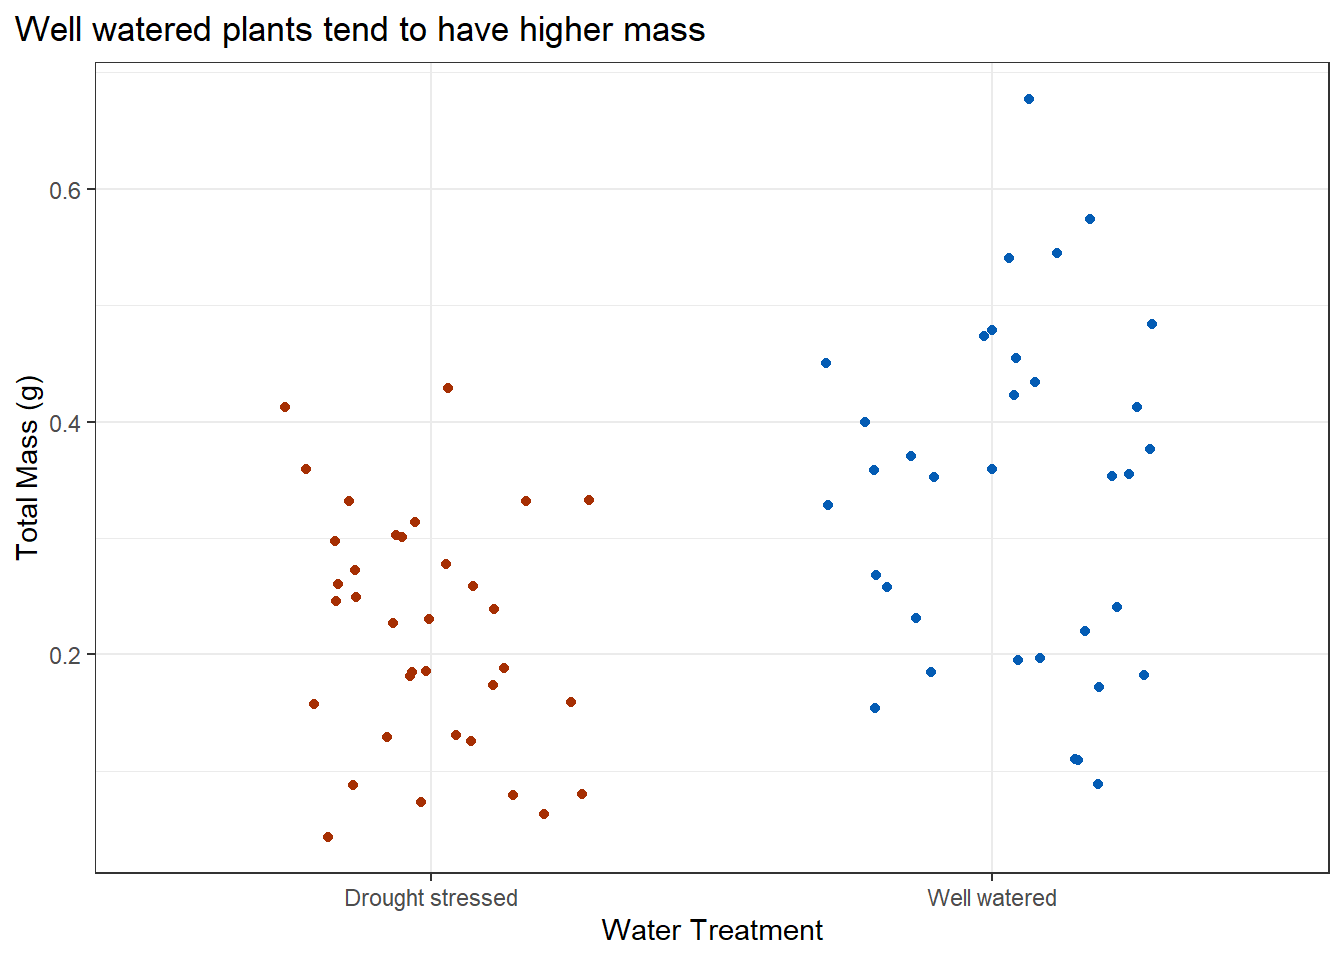
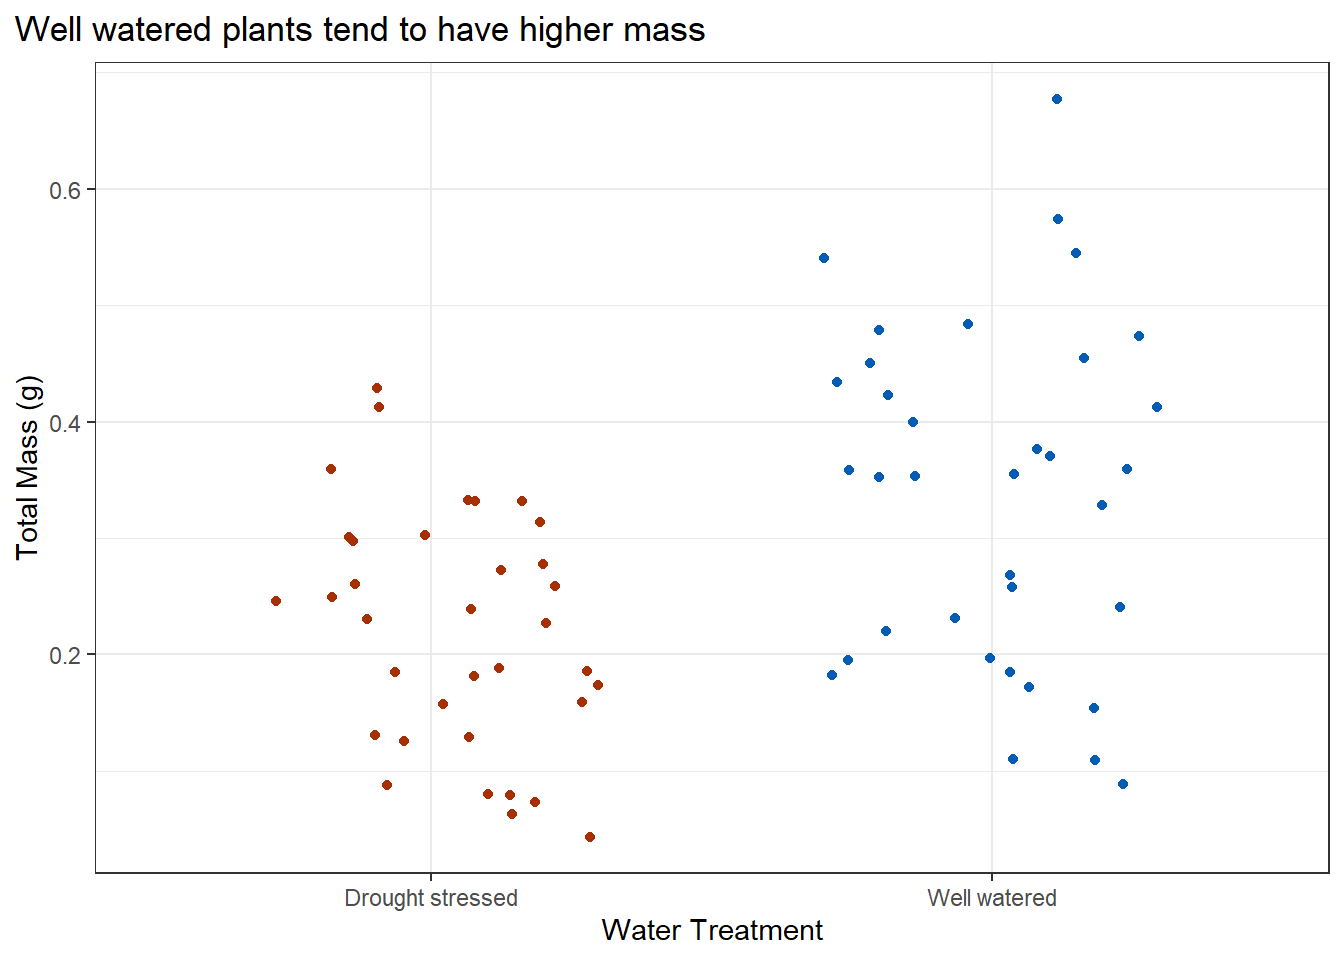
selected best model, looked at summary, wrote about the outcome

diff --git a/code/workshop-code.html b/code/workshop-code.html
@@ -94,7 +94,7 @@ pre > code.sourceCode > span > a:first-child::before { text-decoration: underlin
   </ul></li>
   <li><a href="#fitting-models" id="toc-fitting-models" class="nav-link" data-scroll-target="#fitting-models">4. Fitting models</a>
   <ul class="collapse">
-  <li><a href="#model-fitting" id="toc-model-fitting" class="nav-link" data-scroll-target="#model-fitting">Model fitting</a></li>
+  <li><a href="#model" id="toc-model" class="nav-link" data-scroll-target="#model">Model</a></li>
   <li><a href="#model-selection" id="toc-model-selection" class="nav-link" data-scroll-target="#model-selection">Model selection</a></li>
   <li><a href="#model-diagnostics" id="toc-model-diagnostics" class="nav-link" data-scroll-target="#model-diagnostics">Model diagnostics</a></li>
   <li><a href="#summary" id="toc-summary" class="nav-link" data-scroll-target="#summary">Summary</a></li>
@@ -303,16 +303,16 @@ pre > code.sourceCode > span > a:first-child::before { text-decoration: underlin
 <pre><code># A tibble: 10 × 4
    species_name               water_treatment    sla total_g
    &lt;fct&gt;                      &lt;fct&gt;            &lt;dbl&gt;   &lt;dbl&gt;
- 1 Lotus scoparius            Drought stressed  91.4  0.0626
- 2 Eschscholzia californica   Drought stressed 118.   0.129 
- 3 Eschscholzia californica   Drought stressed 107.   0.302 
- 4 Penstemon centranthifolius Drought stressed 161.   0.174 
- 5 Eschscholzia californica   Well watered     117.   0.574 
- 6 Lotus scoparius            Drought stressed 107.   0.159 
- 7 Lotus scoparius            Drought stressed 116.   0.0802
- 8 Stipa pulchra              Well watered     162.   0.355 
- 9 Penstemon centranthifolius Drought stressed 175.   0.188 
-10 Encelia californica        Well watered     216.   0.359 </code></pre>
+ 1 Penstemon centranthifolius Well watered     154.    0.268
+ 2 Stipa pulchra              Drought stressed 140.    0.359
+ 3 Penstemon centranthifolius Drought stressed 146.    0.126
+ 4 Stipa pulchra              Drought stressed 176.    0.181
+ 5 Grindelia camporum         Well watered     191.    0.479
+ 6 Stipa pulchra              Well watered     161.    0.376
+ 7 Grindelia camporum         Well watered     191.    0.484
+ 8 Salvia leucophylla         Drought stressed  99.7   0.227
+ 9 Penstemon centranthifolius Well watered     158.    0.154
+10 Lotus scoparius            Well watered     123.    0.182</code></pre>
 </div>
 </div>
 </section>
@@ -486,59 +486,141 @@ pre > code.sourceCode > span > a:first-child::before { text-decoration: underlin
 </tr>
 </tbody>
 </table>
-<section id="model-fitting" class="level2">
-<h2 class="anchored" data-anchor-id="model-fitting">Model fitting</h2>
+<section id="model" class="level2">
+<h2 class="anchored" data-anchor-id="model">Model</h2>
 <div class="cell">
 <div class="code-copy-outer-scaffold"><div class="sourceCode cell-code" id="cb11"><pre class="sourceCode r code-with-copy"><code class="sourceCode r"><span id="cb11-1"><a href="#cb11-1" aria-hidden="true" tabindex="-1"></a><span class="co"># model 0: null model</span></span>
-<span id="cb11-2"><a href="#cb11-2" aria-hidden="true" tabindex="-1"></a></span>
-<span id="cb11-3"><a href="#cb11-3" aria-hidden="true" tabindex="-1"></a></span>
-<span id="cb11-4"><a href="#cb11-4" aria-hidden="true" tabindex="-1"></a><span class="co"># model 1: all predictors</span></span>
-<span id="cb11-5"><a href="#cb11-5" aria-hidden="true" tabindex="-1"></a></span>
-<span id="cb11-6"><a href="#cb11-6" aria-hidden="true" tabindex="-1"></a></span>
-<span id="cb11-7"><a href="#cb11-7" aria-hidden="true" tabindex="-1"></a><span class="co"># model 2: SLA and water treatment</span></span>
+<span id="cb11-2"><a href="#cb11-2" aria-hidden="true" tabindex="-1"></a>model0 <span class="ot">&lt;-</span> <span class="fu">lm</span>(total_g <span class="sc">~</span> <span class="dv">1</span>,</span>
+<span id="cb11-3"><a href="#cb11-3" aria-hidden="true" tabindex="-1"></a>              <span class="at">data =</span> drought_exp_clean)</span>
+<span id="cb11-4"><a href="#cb11-4" aria-hidden="true" tabindex="-1"></a></span>
+<span id="cb11-5"><a href="#cb11-5" aria-hidden="true" tabindex="-1"></a><span class="co"># model 1: all predictors</span></span>
+<span id="cb11-6"><a href="#cb11-6" aria-hidden="true" tabindex="-1"></a>model1 <span class="ot">&lt;-</span> <span class="fu">lm</span>(total_g <span class="sc">~</span> sla <span class="sc">+</span> water_treatment <span class="sc">+</span> species_name,</span>
+<span id="cb11-7"><a href="#cb11-7" aria-hidden="true" tabindex="-1"></a>              <span class="at">data =</span> drought_exp_clean)</span>
 <span id="cb11-8"><a href="#cb11-8" aria-hidden="true" tabindex="-1"></a></span>
-<span id="cb11-9"><a href="#cb11-9" aria-hidden="true" tabindex="-1"></a></span>
-<span id="cb11-10"><a href="#cb11-10" aria-hidden="true" tabindex="-1"></a><span class="co"># model 3: SLA and species</span></span>
-<span id="cb11-11"><a href="#cb11-11" aria-hidden="true" tabindex="-1"></a></span>
+<span id="cb11-9"><a href="#cb11-9" aria-hidden="true" tabindex="-1"></a><span class="co"># model 2: SLA and water treatment</span></span>
+<span id="cb11-10"><a href="#cb11-10" aria-hidden="true" tabindex="-1"></a>model2 <span class="ot">&lt;-</span> <span class="fu">lm</span>(total_g <span class="sc">~</span> sla <span class="sc">+</span> water_treatment,</span>
+<span id="cb11-11"><a href="#cb11-11" aria-hidden="true" tabindex="-1"></a>              <span class="at">data =</span> drought_exp_clean)</span>
 <span id="cb11-12"><a href="#cb11-12" aria-hidden="true" tabindex="-1"></a></span>
-<span id="cb11-13"><a href="#cb11-13" aria-hidden="true" tabindex="-1"></a><span class="co"># model 4: water treatment and species</span></span>
-<span id="cb11-14"><a href="#cb11-14" aria-hidden="true" tabindex="-1"></a></span>
-<span id="cb11-15"><a href="#cb11-15" aria-hidden="true" tabindex="-1"></a></span>
-<span id="cb11-16"><a href="#cb11-16" aria-hidden="true" tabindex="-1"></a><span class="co"># model 5: SLA</span></span>
-<span id="cb11-17"><a href="#cb11-17" aria-hidden="true" tabindex="-1"></a></span>
-<span id="cb11-18"><a href="#cb11-18" aria-hidden="true" tabindex="-1"></a></span>
-<span id="cb11-19"><a href="#cb11-19" aria-hidden="true" tabindex="-1"></a><span class="co"># model 6: water treatment</span></span>
+<span id="cb11-13"><a href="#cb11-13" aria-hidden="true" tabindex="-1"></a><span class="co"># model 3: SLA and species</span></span>
+<span id="cb11-14"><a href="#cb11-14" aria-hidden="true" tabindex="-1"></a>model3 <span class="ot">&lt;-</span> <span class="fu">lm</span>(total_g <span class="sc">~</span> sla <span class="sc">+</span> species_name,</span>
+<span id="cb11-15"><a href="#cb11-15" aria-hidden="true" tabindex="-1"></a>              <span class="at">data =</span> drought_exp_clean)</span>
+<span id="cb11-16"><a href="#cb11-16" aria-hidden="true" tabindex="-1"></a></span>
+<span id="cb11-17"><a href="#cb11-17" aria-hidden="true" tabindex="-1"></a><span class="co"># model 4: water treatment and species</span></span>
+<span id="cb11-18"><a href="#cb11-18" aria-hidden="true" tabindex="-1"></a>model4 <span class="ot">&lt;-</span> <span class="fu">lm</span>(total_g <span class="sc">~</span> water_treatment <span class="sc">+</span> species_name,</span>
+<span id="cb11-19"><a href="#cb11-19" aria-hidden="true" tabindex="-1"></a>             <span class="at">data =</span> drought_exp_clean)</span>
 <span id="cb11-20"><a href="#cb11-20" aria-hidden="true" tabindex="-1"></a></span>
-<span id="cb11-21"><a href="#cb11-21" aria-hidden="true" tabindex="-1"></a></span>
-<span id="cb11-22"><a href="#cb11-22" aria-hidden="true" tabindex="-1"></a><span class="co"># model 7: species</span></span></code></pre></div><button title="Copy to Clipboard" class="code-copy-button"><i class="bi"></i></button></div>
+<span id="cb11-21"><a href="#cb11-21" aria-hidden="true" tabindex="-1"></a><span class="co"># model 5: SLA</span></span>
+<span id="cb11-22"><a href="#cb11-22" aria-hidden="true" tabindex="-1"></a>model5 <span class="ot">&lt;-</span> <span class="fu">lm</span>(total_g <span class="sc">~</span> sla,</span>
+<span id="cb11-23"><a href="#cb11-23" aria-hidden="true" tabindex="-1"></a>             <span class="at">data =</span> drought_exp_clean)</span>
+<span id="cb11-24"><a href="#cb11-24" aria-hidden="true" tabindex="-1"></a></span>
+<span id="cb11-25"><a href="#cb11-25" aria-hidden="true" tabindex="-1"></a><span class="co"># model 6: water treatment</span></span>
+<span id="cb11-26"><a href="#cb11-26" aria-hidden="true" tabindex="-1"></a>model6 <span class="ot">&lt;-</span> <span class="fu">lm</span>(total_g <span class="sc">~</span> water_treatment,</span>
+<span id="cb11-27"><a href="#cb11-27" aria-hidden="true" tabindex="-1"></a>             <span class="at">data =</span> drought_exp_clean)</span>
+<span id="cb11-28"><a href="#cb11-28" aria-hidden="true" tabindex="-1"></a></span>
+<span id="cb11-29"><a href="#cb11-29" aria-hidden="true" tabindex="-1"></a><span class="co"># model 7: species</span></span>
+<span id="cb11-30"><a href="#cb11-30" aria-hidden="true" tabindex="-1"></a>model7 <span class="ot">&lt;-</span> <span class="fu">lm</span>(total_g <span class="sc">~</span> species_name,</span>
+<span id="cb11-31"><a href="#cb11-31" aria-hidden="true" tabindex="-1"></a>             <span class="at">data =</span> drought_exp_clean)</span></code></pre></div><button title="Copy to Clipboard" class="code-copy-button"><i class="bi"></i></button></div>
 </div>
 </section>
 <section id="model-selection" class="level2">
 <h2 class="anchored" data-anchor-id="model-selection">Model selection</h2>
 <p>Insert code to use the <code>AICc()</code> function to calculate the AIC for each model.</p>
 <p>Arrange by decreasing AIC.</p>
+<div class="cell">
+<div class="code-copy-outer-scaffold"><div class="sourceCode cell-code" id="cb12"><pre class="sourceCode r code-with-copy"><code class="sourceCode r"><span id="cb12-1"><a href="#cb12-1" aria-hidden="true" tabindex="-1"></a><span class="fu">AICc</span>(</span>
+<span id="cb12-2"><a href="#cb12-2" aria-hidden="true" tabindex="-1"></a>  model0,</span>
+<span id="cb12-3"><a href="#cb12-3" aria-hidden="true" tabindex="-1"></a>  model1,</span>
+<span id="cb12-4"><a href="#cb12-4" aria-hidden="true" tabindex="-1"></a>  model2,</span>
+<span id="cb12-5"><a href="#cb12-5" aria-hidden="true" tabindex="-1"></a>  model3,</span>
+<span id="cb12-6"><a href="#cb12-6" aria-hidden="true" tabindex="-1"></a>  model4,</span>
+<span id="cb12-7"><a href="#cb12-7" aria-hidden="true" tabindex="-1"></a>  model5,</span>
+<span id="cb12-8"><a href="#cb12-8" aria-hidden="true" tabindex="-1"></a>  model6,</span>
+<span id="cb12-9"><a href="#cb12-9" aria-hidden="true" tabindex="-1"></a>  model7</span>
+<span id="cb12-10"><a href="#cb12-10" aria-hidden="true" tabindex="-1"></a>) <span class="sc">|&gt;</span> </span>
+<span id="cb12-11"><a href="#cb12-11" aria-hidden="true" tabindex="-1"></a>  <span class="fu">arrange</span>(AICc)</span></code></pre></div><button title="Copy to Clipboard" class="code-copy-button"><i class="bi"></i></button></div>
+<div class="cell-output cell-output-stdout">
+<pre><code>       df       AICc
+model4  9 -156.19595
+model1 10 -153.75361
+model3  9 -124.07569
+model7  8 -120.30191
+model2  4  -95.82521
+model5  3  -88.85180
+model6  3  -86.76661
+model0  2  -74.98036</code></pre>
+</div>
+</div>
+<p>The best model is model 4: the one that includes only water treatment and species</p>
 </section>
 <section id="model-diagnostics" class="level2">
 <h2 class="anchored" data-anchor-id="model-diagnostics">Model diagnostics</h2>
 <p>Insert code to look at the diagnostic plots for the best model.</p>
+<div class="cell">
+<div class="code-copy-outer-scaffold"><div class="sourceCode cell-code" id="cb14"><pre class="sourceCode r code-with-copy"><code class="sourceCode r"><span id="cb14-1"><a href="#cb14-1" aria-hidden="true" tabindex="-1"></a><span class="fu">par</span>(<span class="at">mfrow =</span> <span class="fu">c</span>(<span class="dv">2</span>,<span class="dv">2</span>)) <span class="co"># display our plots in a 2x2 grid</span></span>
+<span id="cb14-2"><a href="#cb14-2" aria-hidden="true" tabindex="-1"></a><span class="fu">plot</span>(model4) <span class="co"># plot model 4 diagnostics</span></span></code></pre></div><button title="Copy to Clipboard" class="code-copy-button"><i class="bi"></i></button></div>
+<div class="cell-output-display">
+<div>
+<figure class="figure">
+<p><img src="workshop-code_files/figure-html/Residual%20plots%20for%20model%204-1.png" class="img-fluid figure-img" width="672"></p>
+</figure>
+</div>
+</div>
+</div>
+<p>Diagnostic plots look good.</p>
+<p>Residuals (standing in for errors) look normally distributed based on qq plot. Residuals look homoscedastic (have constant variance) based on residuals vs fitted plot and scale location plot.</p>
+<p>No outliers influencing model estimates of coefficients</p>
 </section>
 <section id="summary" class="level2">
 <h2 class="anchored" data-anchor-id="summary">Summary</h2>
 <p>Insert code to display the summary for the best model.</p>
+<div class="cell">
+<div class="code-copy-outer-scaffold"><div class="sourceCode cell-code" id="cb15"><pre class="sourceCode r code-with-copy"><code class="sourceCode r"><span id="cb15-1"><a href="#cb15-1" aria-hidden="true" tabindex="-1"></a><span class="fu">summary</span>(model4)</span></code></pre></div><button title="Copy to Clipboard" class="code-copy-button"><i class="bi"></i></button></div>
+<div class="cell-output cell-output-stdout">
+<pre><code>
+Call:
+lm(formula = total_g ~ water_treatment + species_name, data = drought_exp_clean)
+
+Residuals:
+      Min        1Q    Median        3Q       Max 
+-0.157087 -0.046953 -0.003733  0.041244  0.192657 
+
+Coefficients:
+                                       Estimate Std. Error t value Pr(&gt;|t|)    
+(Intercept)                             0.05455    0.02451   2.225  0.02973 *  
+water_treatmentWell watered             0.11695    0.01733   6.746 5.90e-09 ***
+species_namePenstemon centranthifolius  0.05003    0.03243   1.543  0.12799    
+species_nameSalvia leucophylla          0.12020    0.03243   3.706  0.00045 ***
+species_nameEncelia californica         0.21774    0.03243   6.714 6.70e-09 ***
+species_nameStipa pulchra               0.22881    0.03243   7.055 1.72e-09 ***
+species_nameEschscholzia californica    0.23164    0.03243   7.143 1.22e-09 ***
+species_nameGrindelia camporum          0.31335    0.03243   9.662 5.53e-14 ***
+---
+Signif. codes:  0 '***' 0.001 '**' 0.01 '*' 0.05 '.' 0.1 ' ' 1
+
+Residual standard error: 0.07252 on 62 degrees of freedom
+Multiple R-squared:  0.7535,    Adjusted R-squared:  0.7257 
+F-statistic: 27.08 on 7 and 62 DF,  p-value: &lt; 2.2e-16</code></pre>
+</div>
+</div>
 <p><strong>What are the reference levels?</strong></p>
+<p>Drought treatment and Lotus scoparius because they are not listed in the summary output</p>
 <p><strong>What does the <code>(Intercept)</code> represent?</strong></p>
+<p>The estimated mass for drought stressed lotus scoparius (0.055 +/- 0.02(SE) g)</p>
 <p><strong>What does <code>water_treatmentWell watered</code> represent?</strong></p>
+<p>This is the model prediction for the difference in Lotus scoparius mass between the well watered and drought stressed treatments. The model predicts the difference is 0.12 +/- 0.02 (SE) g</p>
 <p><strong>What does <code>species_namePenstemon centranthifolius</code> represent?</strong></p>
+<p>This is the model prediction for the difference between Penstemon centranthifolius mass in the well watered treatment and Lotus scoparius mass in the well watered treatment. The model predicts that this difference is 0.05 +/- 0.03 (SE) g.</p>
 <p><strong>What does <code>species_nameEschscholzia californica</code> represent?</strong></p>
+<p>This is the model prediction for the difference between Eschscholzia californica mass in the well watered treatment and Lotus scoparius mass in the well watered treatment. The model predicts that this difference is 0.23 +/- 0.03 (SE) g.</p>
 </section>
 <section id="stop-and-think-what-does-this-model-mean" class="level2">
 <h2 class="anchored" data-anchor-id="stop-and-think-what-does-this-model-mean">Stop and think: what does this model mean?</h2>
 <p><strong>What is the best model?</strong></p>
-<p>[insert your response here]</p>
+<p>[The best model includes water treatment and species as predictors]</p>
 <p><strong>How much variation in the response (total mass, in grams) does this model explain?</strong></p>
-<p>[insert your response here]</p>
+<p>[This model explains 72.57% of the variation in plant mass.]</p>
 <p><strong>How do we interpret the effects of the predictors on the response variable (again, total mass in grams)?</strong></p>
-<p>[insert your response here]</p>
+<p>[Species and water treatment influence plant mass]</p>
 </section>
 </section>
 <section id="model-predictions" class="level1">
